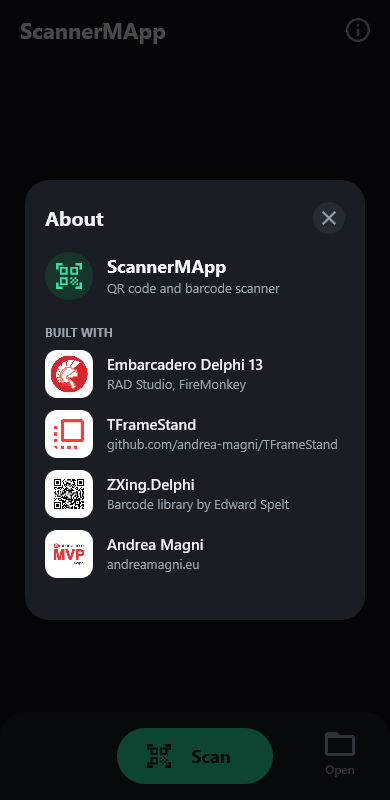
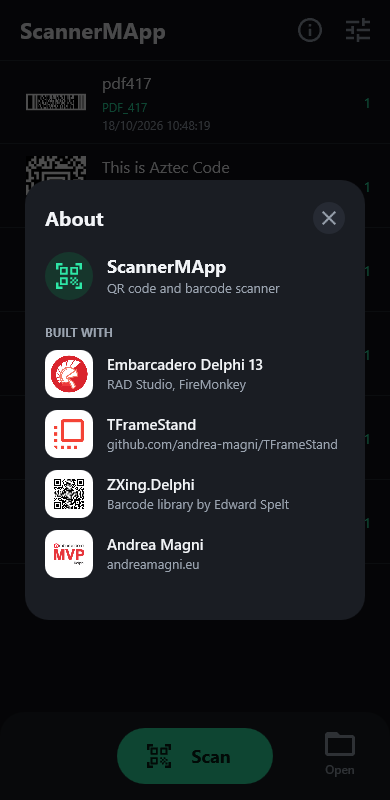
README: new features, iOS and macOS targets; screenshots with the formats card

diff --git a/README.md b/README.md
@@ -2,27 +2,29 @@
 
 A QR code and barcode scanner app built with Delphi and FireMonkey, using [ZXing.Delphi](https://github.com/Spelt/ZXing.Delphi) for decoding and [TFrameStand](https://github.com/andrea-magni/TFrameStand) for the views.
 
-It started in 2017 as a sample for TFrameStand ([blog post](https://blog.andreamagni.eu/2017/06/scannermapp-a-qrbarcode-scanner-app-with-delphi-zxing-and-tframestand/)). It now builds with RAD Studio 13 and runs on recent Android versions, with a dark UI.
+It started in 2017 as a sample for TFrameStand ([blog post](https://blog.andreamagni.eu/2017/06/scannermapp-a-qrbarcode-scanner-app-with-delphi-zxing-and-tframestand/)). It now builds with RAD Studio 13 and runs on recent Android versions, with a dark UI; the iOS and macOS targets are set up too.
 
-| Scans | Scan result | About |
-|:---:|:---:|:---:|
-| ![Scans](docs/screenshots/list.png) | ![Scan result](docs/screenshots/result.png) | ![About](docs/screenshots/about.png) |
+| Scans | Scan result | Formats | About |
+|:---:|:---:|:---:|:---:|
+| ![Scans](docs/screenshots/list.png) | ![Scan result](docs/screenshots/result.png) | ![Formats](docs/screenshots/settings.png) | ![About](docs/screenshots/about.png) |
 
 The screenshots come from the Windows build; on Android the bottom bar has **Gallery** instead of **Open**.
 
 ## Features
 
-- Live scanning from the camera, with a square viewfinder, the points found by ZXing and a torch button. The frames are decoded in the background (`ScanAsync`), so the preview stays smooth.
-- Scanning from a picture in the photo library (Android) or from a file (Windows).
+- Live scanning from the camera, with a square viewfinder, the points found by ZXing and a torch button. The frames are decoded in the background (`ScanAsync`), so the preview stays smooth. A code that is found but cannot be read yet shows a hint: hold the phone still, or move closer.
+- Scanning from a picture in the photo library (Android, iOS) or from a file (Windows, macOS): every code in the image is read. On Windows an image can also be passed on the command line ("Open with").
 - Every format ZXing.Delphi 4 reads automatically: QR code, Micro QR, Data Matrix, Aztec, PDF 417, MaxiCode, Code 39/93/128, EAN, UPC, ITF, Codabar, GS1 DataBar… The result card outlines the code in the frame.
-- A list of the scans: the same code scanned again increments its counter.
+- **Formats to read**: fewer formats make scanning faster and save battery. The choice is kept.
+- A list of the scans, kept between runs: the same code scanned again increments its counter.
 - A result card with the scanned frame (pinch, double tap or mouse wheel to zoom, drag to pan) and **Copy**, **Share** and **Delete**.
-- Android 15+ edge-to-edge: the content stays clear of the system bars.
+- Android: only the camera permission, adaptive launcher icon (also themed), the **Back** key closes what is open and then leaves the app, edge-to-edge (Android 15+) with the content clear of the system bars.
 
 ## Requirements
 
 - **RAD Studio 13 Florence** (Delphi 13).
 - **Android 64-bit**: min SDK 24, target SDK 36. Win32 and Win64 build too (scanning from a file; the camera has not been tested on Windows).
+- **iOS and macOS**: the iOS device, macOS ARM and macOS Intel targets compile and link from Windows (with the SDKs imported in RAD Studio); running them needs a Mac with PAServer, and they have not been tried on a device yet.
 - **[ZXing.Delphi](https://github.com/Spelt/ZXing.Delphi) 4.0** or later, included as a git submodule in `ThirdParty\ZXing.Delphi` (branch `4.0`). Version 3.x does not build: the app uses `IScanManager` and `ScanAsync`.
 - **[TFrameStand](https://github.com/andrea-magni/TFrameStand) [v.2.4](https://github.com/andrea-magni/TFrameStand/releases/tag/v.2.4)** or later, installed in the IDE (see below). It is not part of this repository: the project finds it through the IDE library path.
 
@@ -55,13 +57,16 @@ For Android:
 
 | Unit | Content |
 |---|---|
-| `Forms.Main` | Main form: header, bottom bar, permissions, safe area |
-| `Data.Main` | Data module: camera, ZXing scanning, the in-memory table of the scans |
+| `Forms.Main` | Main form: header, bottom bar, permissions, safe area, Back key |
+| `Data.Main` | Data module: camera, ZXing scanning, the table of the scans (saved in the app data folder) |
+| `Data.Settings` | App data folder; the formats to read (`TScanSettings`, saved as JSON) |
 | `Frames.Scanning` | Camera preview, viewfinder, torch |
 | `Frames.Data` | List of the scans |
 | `Frames.ScanResult` | Result card: zoomable frame, value, Copy / Share / Delete |
+| `Frames.Settings` | Formats to read |
 | `Frames.Info` | About |
 | `UI.Theme` | Palette, icons (Material Icons paths), pressed feedback |
+| `Icons\Android` | Launcher icon: adaptive layers (vector) and legacy PNGs |
 
 ## License
 
